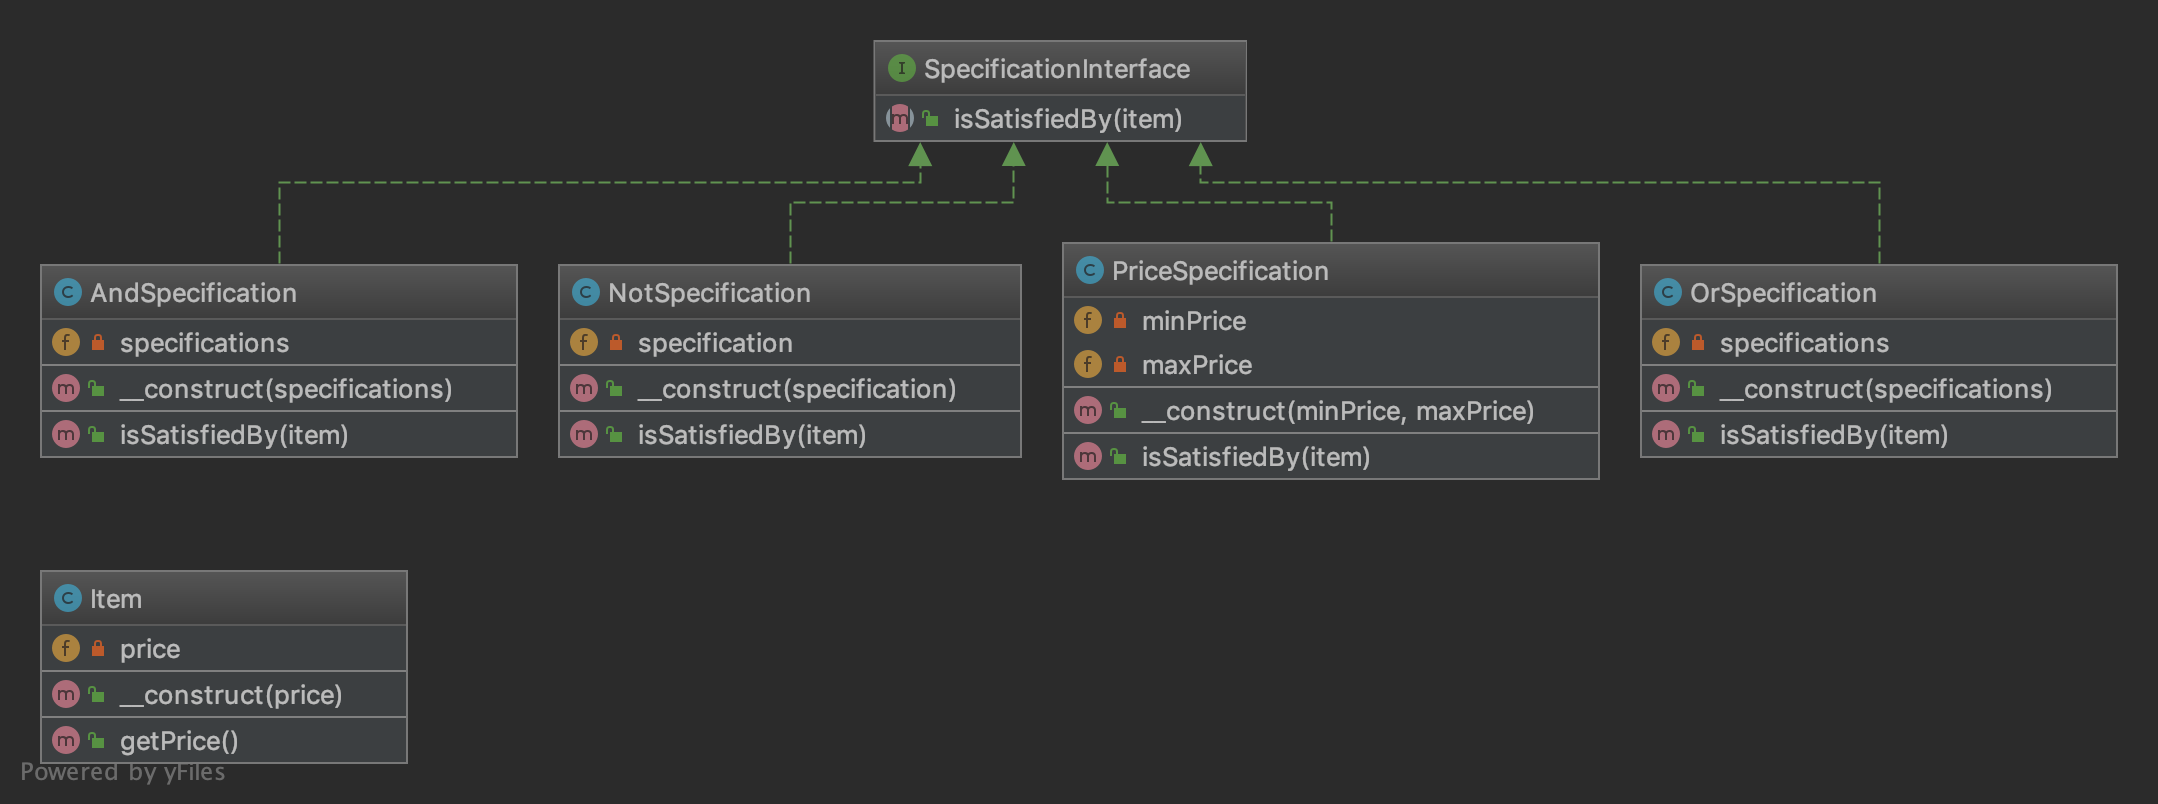
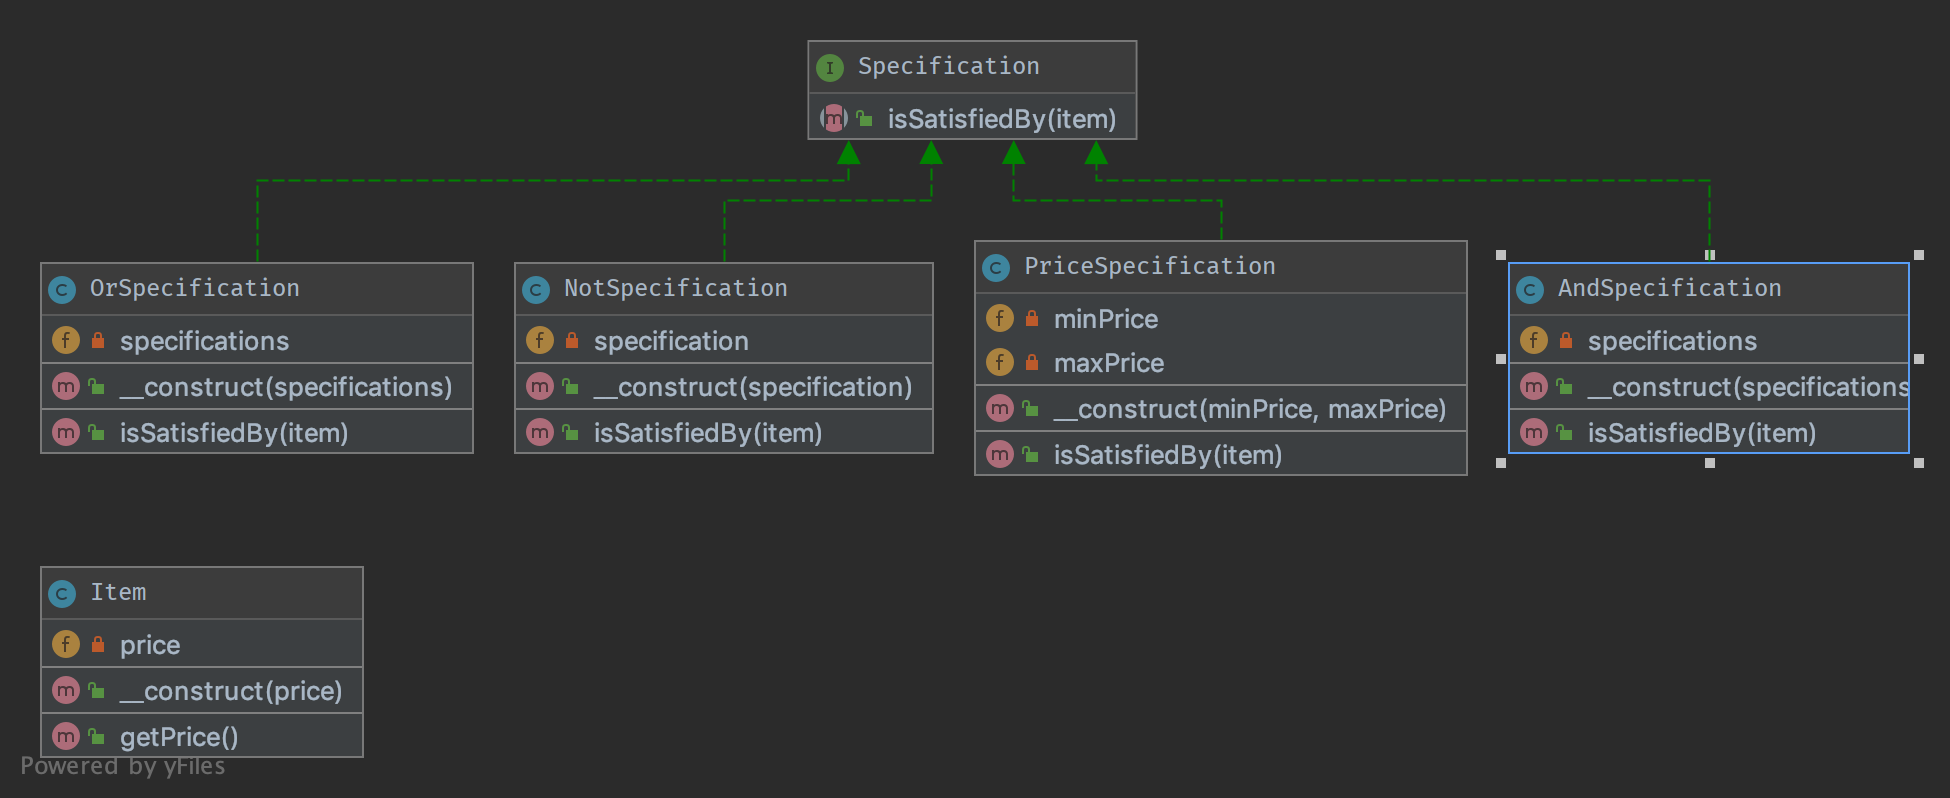
remove Interface-Suffix

diff --git a/Behavioral/Specification/AndSpecification.php b/Behavioral/Specification/AndSpecification.php
@@ -3,17 +3,17 @@ declare(strict_types=1);
 
 namespace DesignPatterns\Behavioral\Specification;
 
-class AndSpecification implements SpecificationInterface
+class AndSpecification implements Specification
 {
     /**
-     * @var SpecificationInterface[]
+     * @var Specification[]
      */
     private $specifications;
 
     /**
-     * @param SpecificationInterface[] ...$specifications
+     * @param Specification[] ...$specifications
      */
-    public function __construct(SpecificationInterface ...$specifications)
+    public function __construct(Specification ...$specifications)
     {
         $this->specifications = $specifications;
     }

diff --git a/Behavioral/Specification/OrSpecification.php b/Behavioral/Specification/OrSpecification.php
@@ -3,17 +3,17 @@ declare(strict_types=1);
 
 namespace DesignPatterns\Behavioral\Specification;
 
-class OrSpecification implements SpecificationInterface
+class OrSpecification implements Specification
 {
     /**
-     * @var SpecificationInterface[]
+     * @var Specification[]
      */
     private $specifications;
 
     /**
-     * @param SpecificationInterface[] ...$specifications
+     * @param Specification[] ...$specifications
      */
-    public function __construct(SpecificationInterface ...$specifications)
+    public function __construct(Specification ...$specifications)
     {
         $this->specifications = $specifications;
     }

diff --git a/Behavioral/Specification/NotSpecification.php b/Behavioral/Specification/NotSpecification.php
@@ -3,14 +3,14 @@ declare(strict_types=1);
 
 namespace DesignPatterns\Behavioral\Specification;
 
-class NotSpecification implements SpecificationInterface
+class NotSpecification implements Specification
 {
     /**
-     * @var SpecificationInterface
+     * @var Specification
      */
     private $specification;
 
-    public function __construct(SpecificationInterface $specification)
+    public function __construct(Specification $specification)
     {
         $this->specification = $specification;
     }

diff --git a/Behavioral/Specification/PriceSpecification.php b/Behavioral/Specification/PriceSpecification.php
@@ -3,7 +3,7 @@ declare(strict_types=1);
 
 namespace DesignPatterns\Behavioral\Specification;
 
-class PriceSpecification implements SpecificationInterface
+class PriceSpecification implements Specification
 {
     /**
      * @var float|null

diff --git a/Behavioral/Specification/Specification.php b/Behavioral/Specification/Specification.php
@@ -3,7 +3,7 @@ declare(strict_types=1);
 
 namespace DesignPatterns\Behavioral\Specification;
 
-interface SpecificationInterface
+interface Specification
 {
     public function isSatisfiedBy(Item $item): bool;
 }

diff --git a/Behavioral/Specification/README.rst b/Behavioral/Specification/README.rst
@@ -32,9 +32,9 @@ Item.php
    :language: php
    :linenos:
 
-SpecificationInterface.php
+Specification.php
 
-.. literalinclude:: SpecificationInterface.php
+.. literalinclude:: Specification.php
    :language: php
    :linenos:
 
